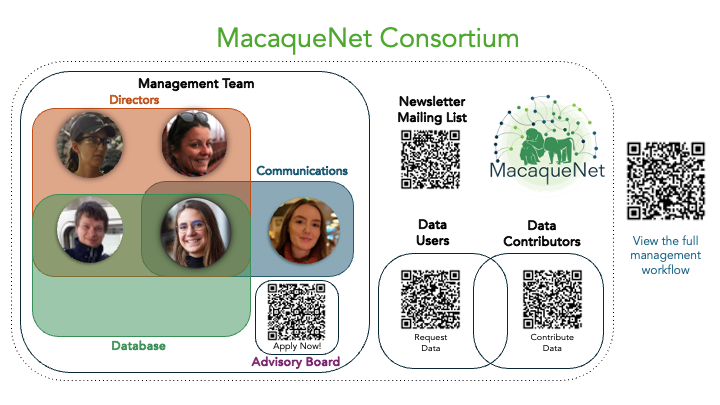
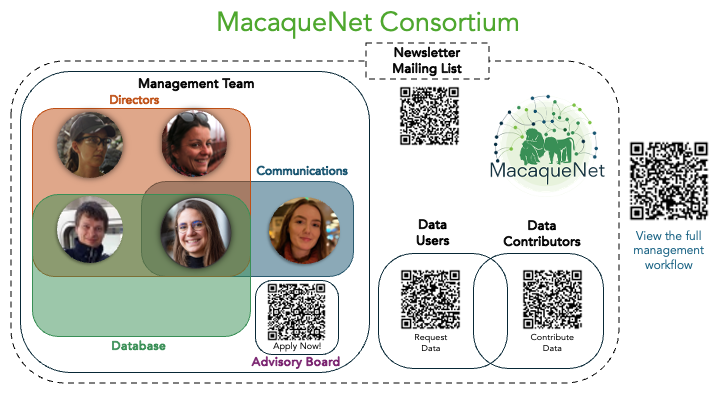
update management figure and page text

diff --git a/consortium_structure.md b/consortium_structure.md
@@ -15,7 +15,7 @@ permalink: /consortium_structure/
 <br>
 
 
-The MacaqueNet Consortium was designed to support collaboration among researchers studying macaques and is structured to ensure effective communication and data sharing. Many members have multiple roles within the consortium, participating in more than one area. For example, some members may be both data users and contributors, while members of the management team have also contributed data. Other members have not yet contributed or used data, but are subscribed to the newsletter to stay informed. This overlap reflects the collaborative nature of our community.
+The MacaqueNet Consortium was designed to support collaboration among researchers studying macaques and is structured to ensure effective communication and data sharing. Many members have multiple roles within the consortium, participating in more than one area. For example, some members may be both data users and contributors, while members of the management team have also contributed data. Other members have not yet contributed or used data, and are only subscribed to the newsletter to stay informed. All members are part of the newsletter mailing list. This overlap and nested structure reflects the collaborative nature of our community.
 You can view the full MacaqueNet management workflow <a href="https://github.com/MacaqueNet/database/blob/main/MacaqueNet%20Management%20Workflow.pdf" target="_blank">here</a>, or by scanning the QR code in the figure above. 
 
 <h2 style="margin-top:2rem;">Management Team</h2>
